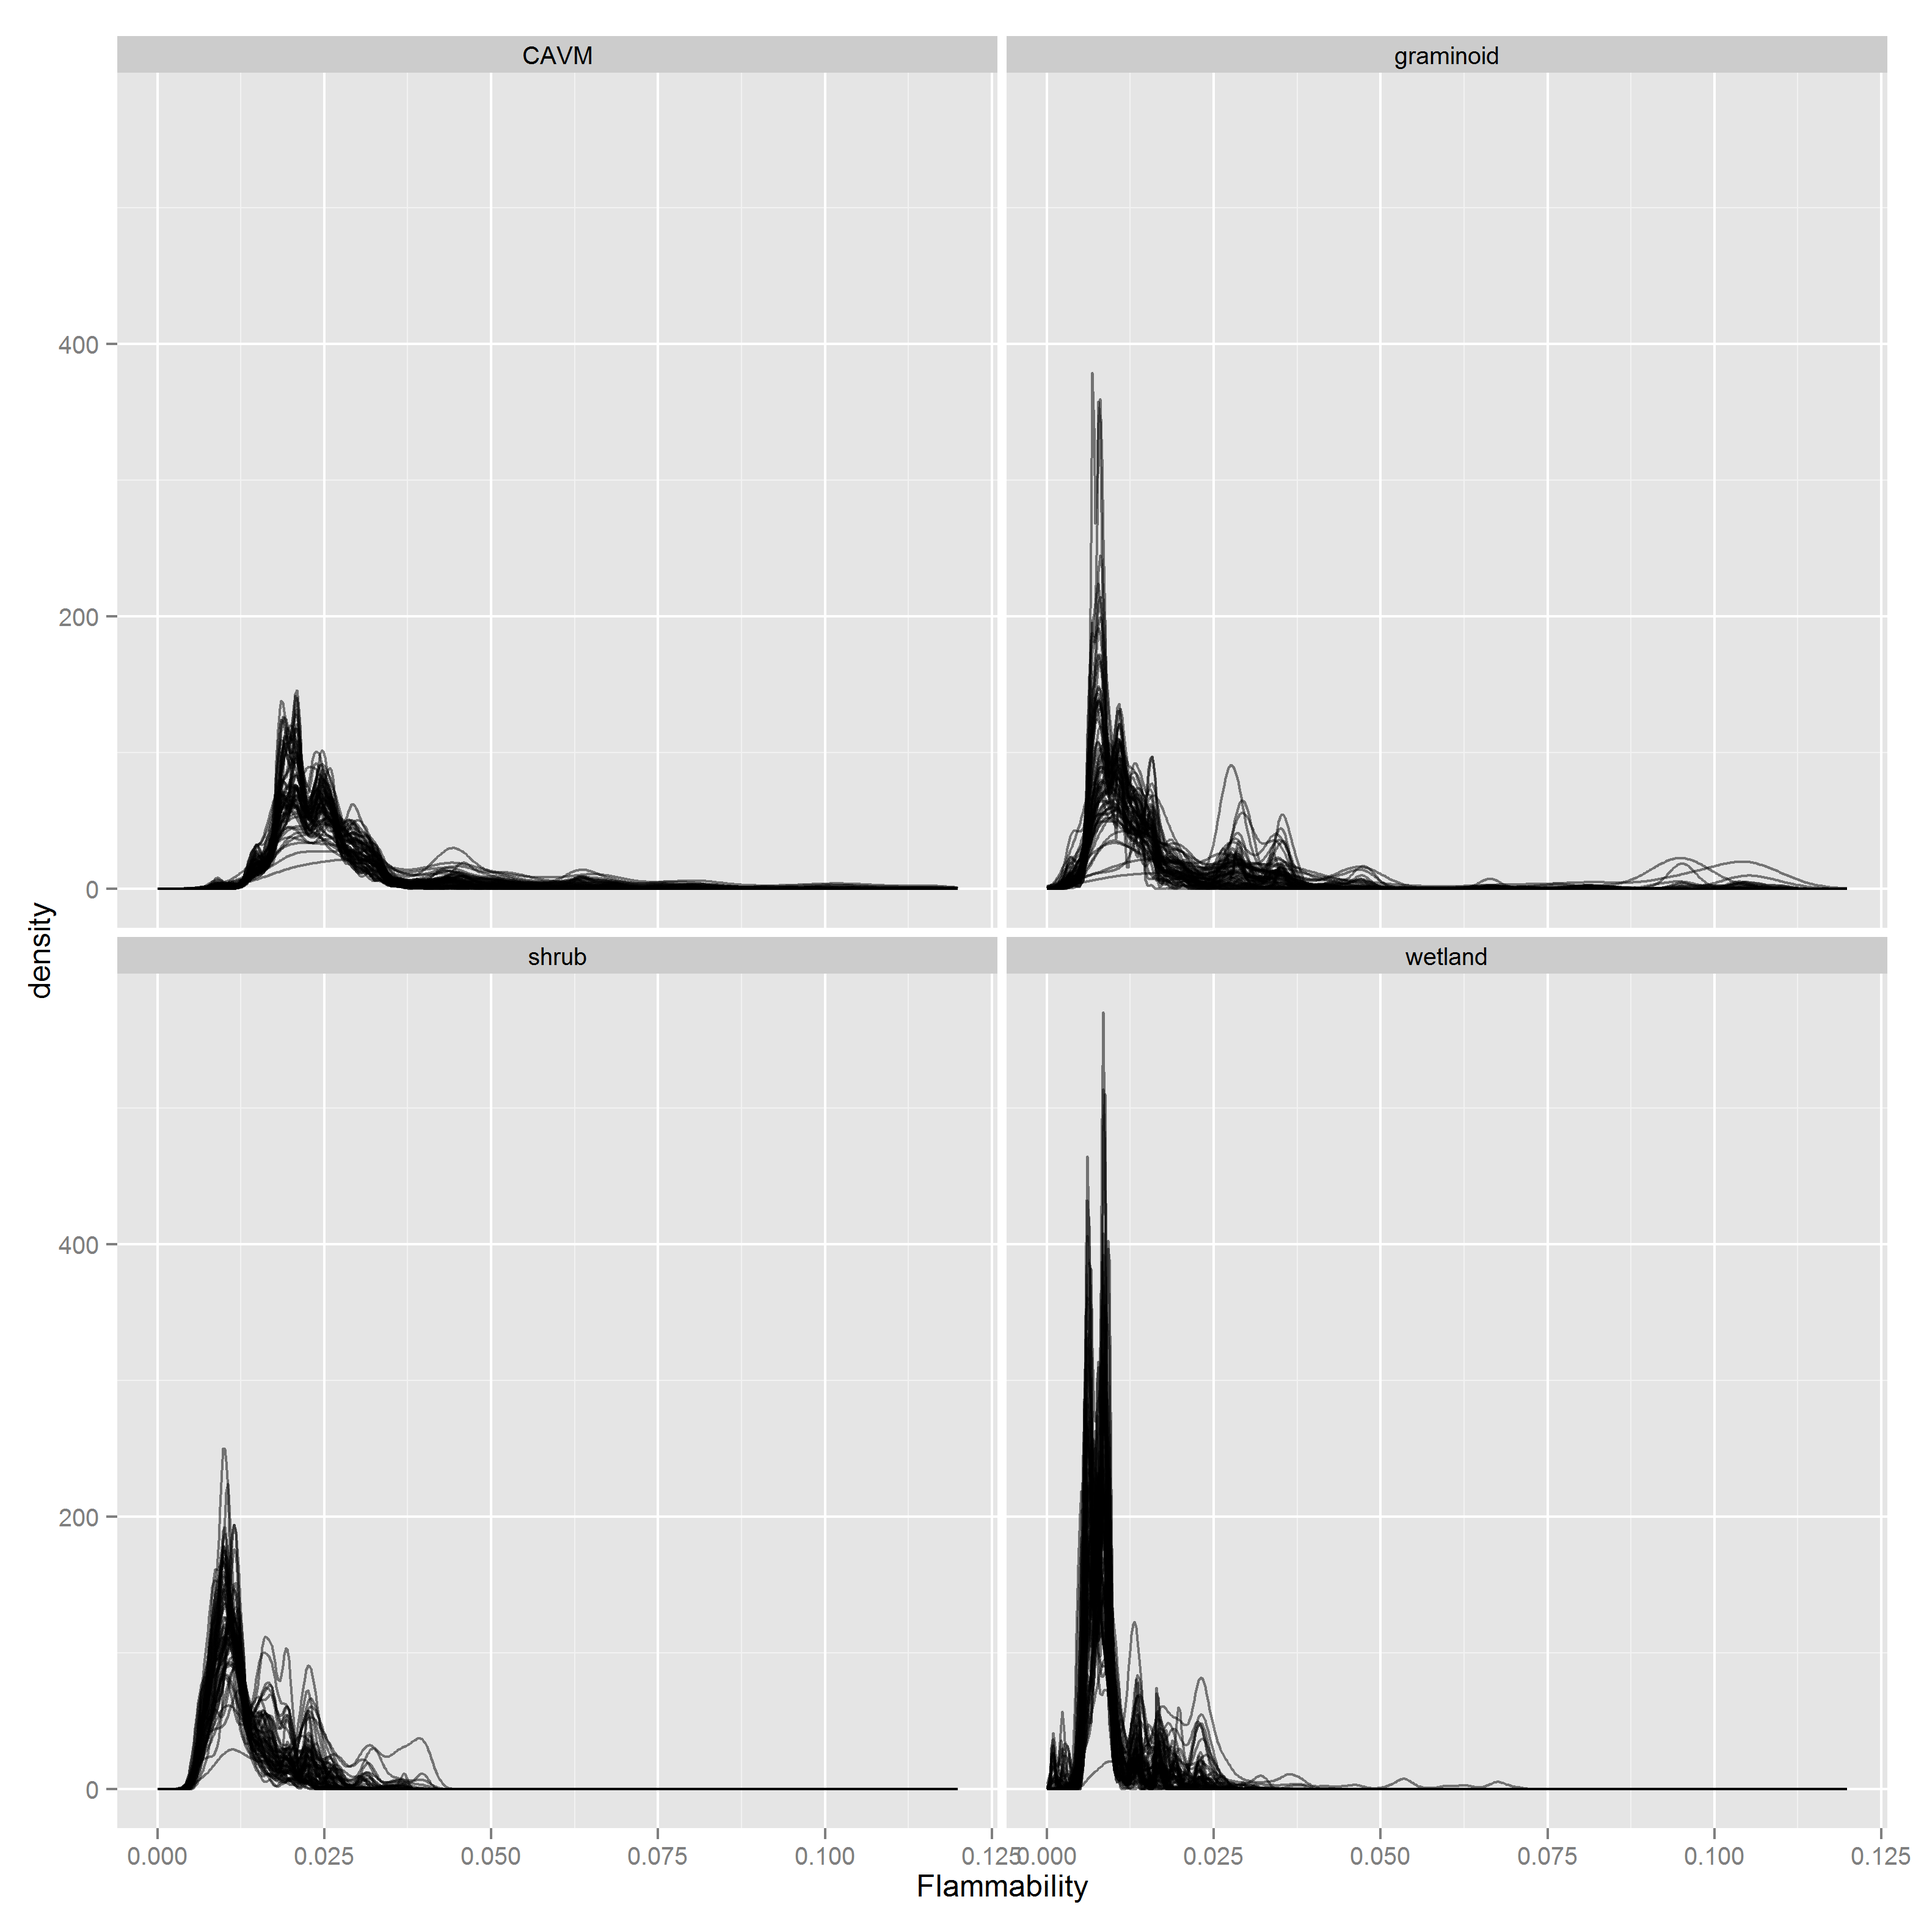
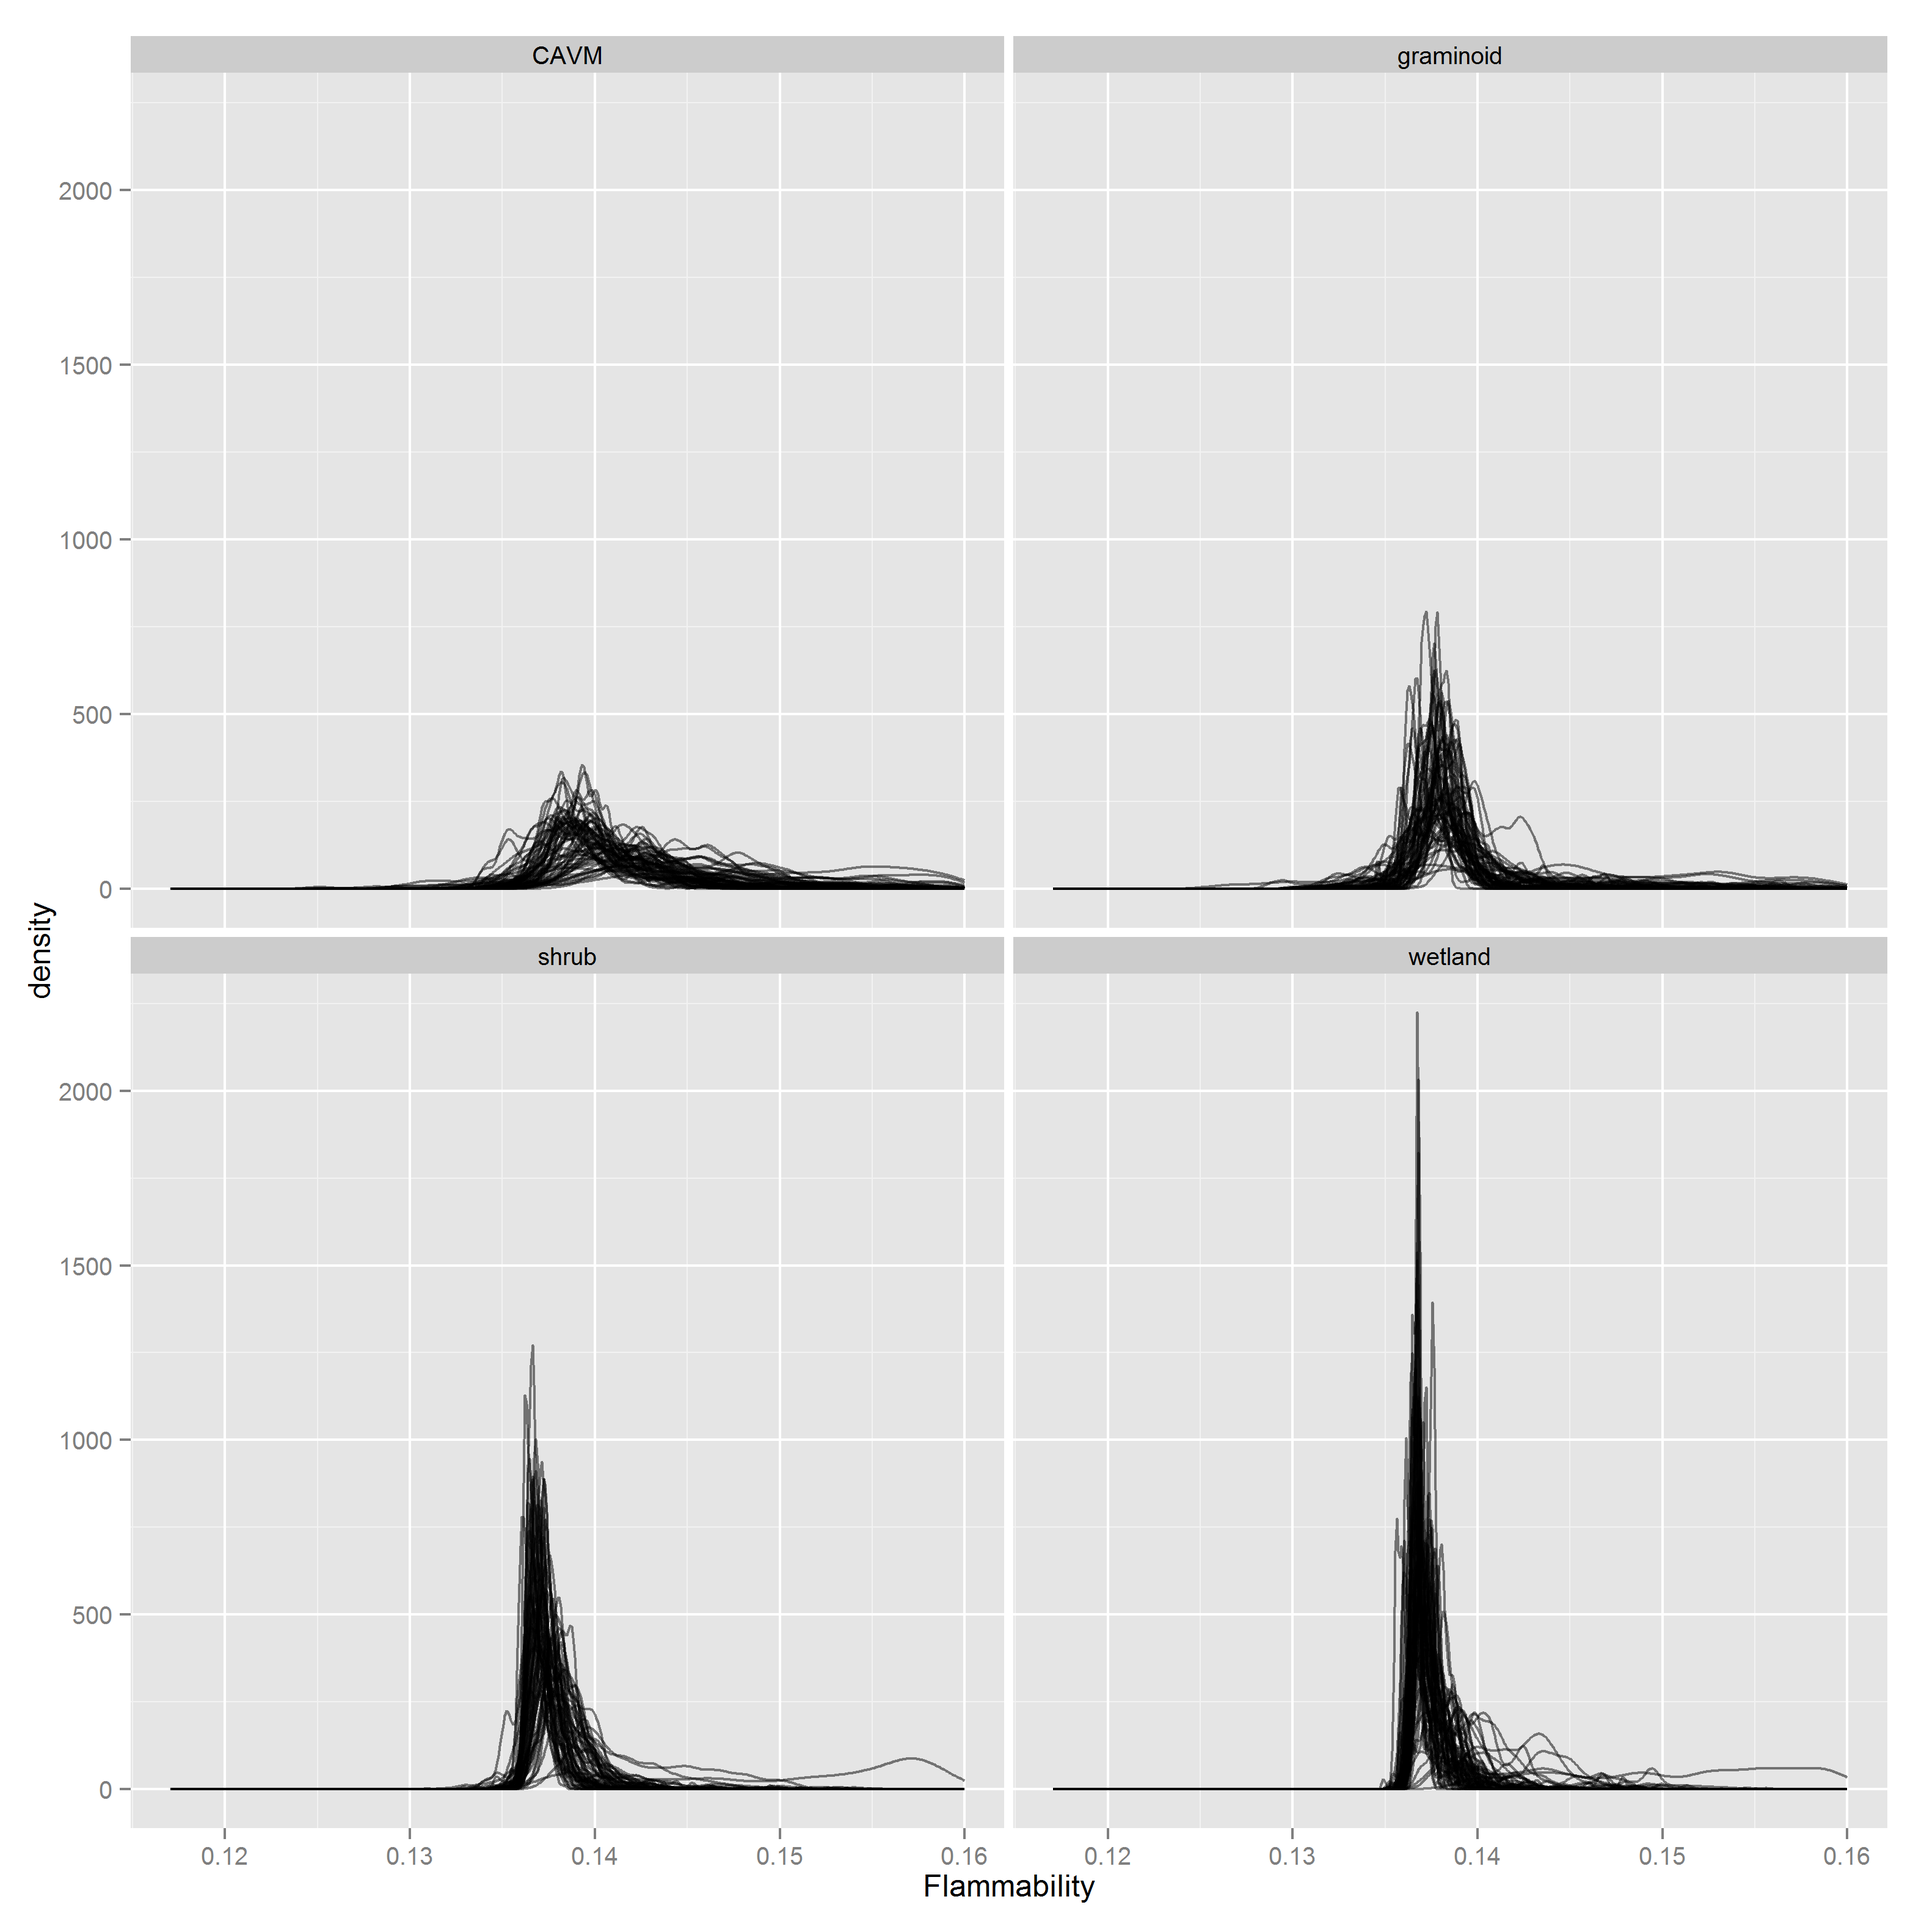
Update docs

diff --git a/docs/html/cavm_flam_dist.html b/docs/html/cavm_flam_dist.html
@@ -209,13 +209,13 @@ img {
 <p>Each plot is broken out by vegetation class within the CAVM tundra region as well as each of three component classes, shrub, graminoid, and wetland tundra.</p>
 <div id="marginal-distribution" class="section level3">
 <h3>Marginal distribution</h3>
-<p>The first plot shows a density function proportional to joint probability distribution for flammability in time and space, marginalized with repsect to time. The time period is 1950 - 2013. The second plot is the same, but truncated to a maximum of 0.12 flammability.</p>
+<p>The first plot shows a density function proportional to joint probability distribution for flammability in time and space, marginalized with repsect to time. The time period is 1950 - 2013. The second plot is the same, but truncated to a maximum of 0.16 flammability.</p>
 <p><img src="cavm_flam_dist_files/figure-html/plot01a-1.png" /></p>
 <p><img src="cavm_flam_dist_files/figure-html/plot01b-1.png" /></p>
 </div>
 <div id="conditional-distribution" class="section level3">
 <h3>Conditional distribution</h3>
-<p>This plot shows multiple overlapping spatial flammability distributions conditioned on each year, also truncated at 0.12.</p>
+<p>This plot shows multiple overlapping spatial flammability distributions conditioned on each year, also truncated at 0.16.</p>
 <p><img src="cavm_flam_dist_files/figure-html/plot02-1.png" /></p>
 <p>The table below provides distribution quantiles by vegetation class.</p>
 <table>
@@ -235,43 +235,43 @@ img {
 <tbody>
 <tr class="odd">
 <td align="left">CAVM</td>
-<td align="right">0.0159</td>
-<td align="right">0.0180</td>
-<td align="right">0.0201</td>
-<td align="right">0.0241</td>
-<td align="right">0.0295</td>
-<td align="right">0.0449</td>
-<td align="right">0.0638</td>
+<td align="right">0.1363</td>
+<td align="right">0.1372</td>
+<td align="right">0.1386</td>
+<td align="right">0.1405</td>
+<td align="right">0.1437</td>
+<td align="right">0.1487</td>
+<td align="right">0.1547</td>
 </tr>
 <tr class="even">
 <td align="left">shrub</td>
-<td align="right">0.0069</td>
-<td align="right">0.0078</td>
-<td align="right">0.0094</td>
-<td align="right">0.0115</td>
-<td align="right">0.0155</td>
-<td align="right">0.0216</td>
-<td align="right">0.0239</td>
+<td align="right">0.1362</td>
+<td align="right">0.1364</td>
+<td align="right">0.1368</td>
+<td align="right">0.1374</td>
+<td align="right">0.1383</td>
+<td align="right">0.1397</td>
+<td align="right">0.1412</td>
 </tr>
 <tr class="odd">
 <td align="left">graminoid</td>
-<td align="right">0.0064</td>
-<td align="right">0.0069</td>
-<td align="right">0.0084</td>
-<td align="right">0.0116</td>
-<td align="right">0.0179</td>
-<td align="right">0.0310</td>
-<td align="right">0.0364</td>
+<td align="right">0.1356</td>
+<td align="right">0.1363</td>
+<td align="right">0.1372</td>
+<td align="right">0.1382</td>
+<td align="right">0.1394</td>
+<td align="right">0.1427</td>
+<td align="right">0.1491</td>
 </tr>
 <tr class="even">
 <td align="left">wetland</td>
-<td align="right">0.0055</td>
-<td align="right">0.0059</td>
-<td align="right">0.0067</td>
-<td align="right">0.0082</td>
-<td align="right">0.0096</td>
-<td align="right">0.0164</td>
-<td align="right">0.0196</td>
+<td align="right">0.1363</td>
+<td align="right">0.1364</td>
+<td align="right">0.1367</td>
+<td align="right">0.1372</td>
+<td align="right">0.1382</td>
+<td align="right">0.1399</td>
+<td align="right">0.1421</td>
 </tr>
 </tbody>
 </table>

diff --git a/docs/md/cavm_flam_dist.md b/docs/md/cavm_flam_dist.md
@@ -14,7 +14,7 @@ Each plot is broken out by vegetation class within the CAVM tundra region as wel
 ### Marginal distribution
 
 The first plot shows a density function proportional to joint probability distribution for flammability in time and space,
-marginalized with repsect to time. The time period is 1950 - 2013. The second plot is the same, but truncated to a maximum of 0.12 flammability.
+marginalized with repsect to time. The time period is 1950 - 2013. The second plot is the same, but truncated to a maximum of 0.16 flammability.
 
 ![](cavm_flam_dist_files/figure-html/plot01a-1.png) 
 
@@ -22,7 +22,7 @@ marginalized with repsect to time. The time period is 1950 - 2013. The second pl
 
 ### Conditional distribution
 
-This plot shows multiple overlapping spatial flammability distributions conditioned on each year, also truncated at 0.12.
+This plot shows multiple overlapping spatial flammability distributions conditioned on each year, also truncated at 0.16.
 
 ![](cavm_flam_dist_files/figure-html/plot02-1.png) 
 
@@ -33,7 +33,7 @@ Table: Critical values associated with flammability by vegetation class
 
 Vegetation     Pct05    Pct10    Pct25    Pct50    Pct75    Pct90    Pct95
 -----------  -------  -------  -------  -------  -------  -------  -------
-CAVM          0.0159   0.0180   0.0201   0.0241   0.0295   0.0449   0.0638
-shrub         0.0069   0.0078   0.0094   0.0115   0.0155   0.0216   0.0239
-graminoid     0.0064   0.0069   0.0084   0.0116   0.0179   0.0310   0.0364
-wetland       0.0055   0.0059   0.0067   0.0082   0.0096   0.0164   0.0196
+CAVM          0.1363   0.1372   0.1386   0.1405   0.1437   0.1487   0.1547
+shrub         0.1362   0.1364   0.1368   0.1374   0.1383   0.1397   0.1412
+graminoid     0.1356   0.1363   0.1372   0.1382   0.1394   0.1427   0.1491
+wetland       0.1363   0.1364   0.1367   0.1372   0.1382   0.1399   0.1421
